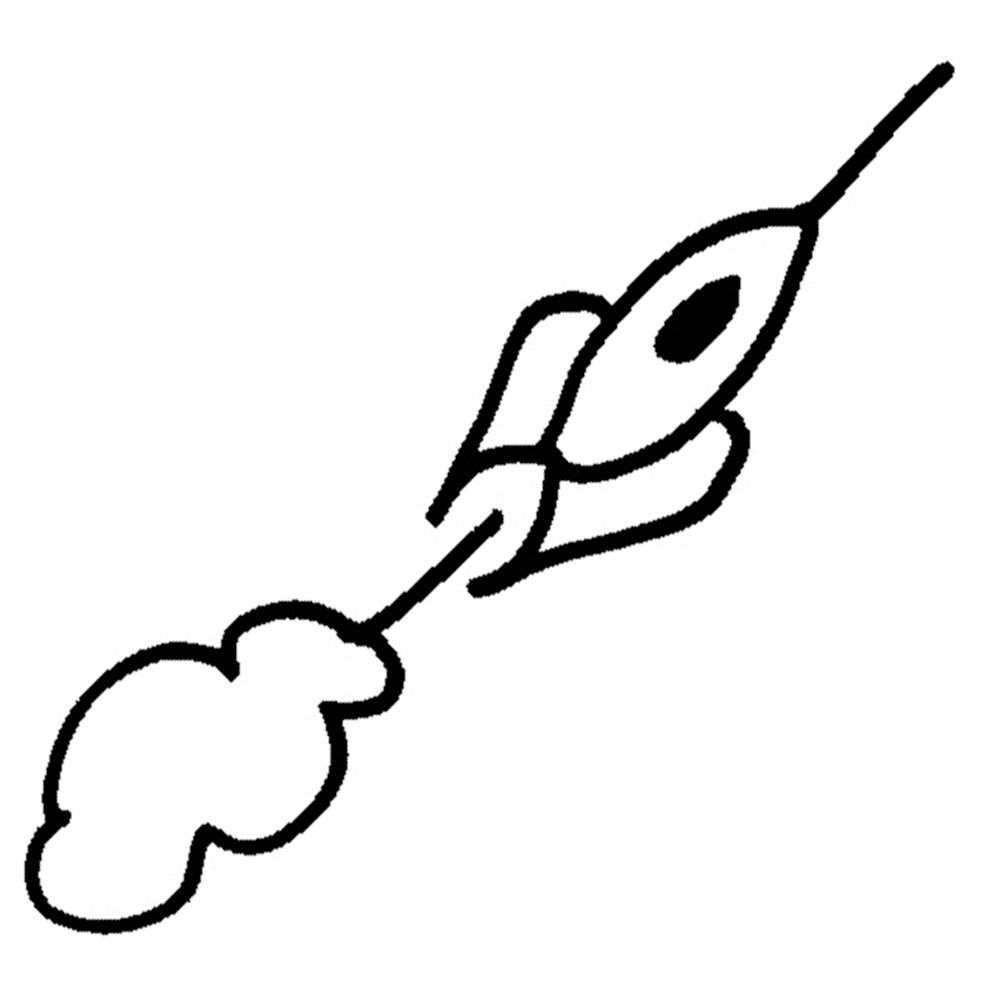
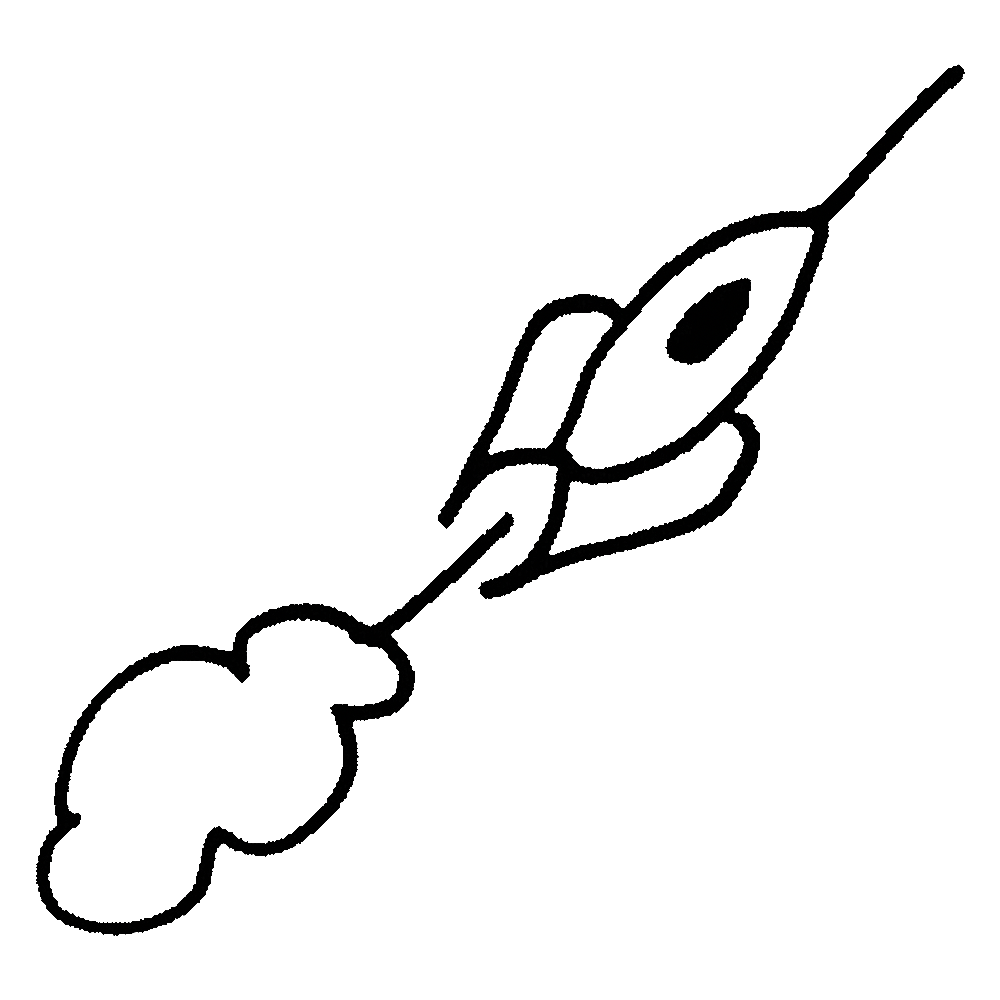
futz with html and css

Changed region(s): [[0.0, 0.062, 0.961, 0.93]]

diff --git a/index.html b/index.html
@@ -9,21 +9,23 @@
   <body>
     <header>
       <img
-        src="/assets/r2n_angled2.png"
+        src="/assets/r2n_angled.png"
         alt="a simple line drawing of a rocket with an exhaust plume and a single window"
         height="100px"
         width="100px"
       />
       <h1>Shawn Huelle</h1>
-      <nav>
-        <ul class="nav-list">
-          <li><a href="#about">About Me</a></li>
-          <li><a href="cv">CV</a></li>
-          <li><a href="pubs">Publications</a></li>
-          <li><a href="projs">Projects</a></li>
-          <li><a href="contact">Contact Me</a></li>
-        </ul>
-      </nav>
+      <section>
+        <nav>
+          <ul class="nav-list">
+            <li><a href="#about">About Me</a></li>
+            <li><a href="cv">CV</a></li>
+            <li><a href="pubs">Publications</a></li>
+            <li><a href="projs">Projects</a></li>
+            <li><a href="contact">Contact Me</a></li>
+          </ul>
+        </nav>
+      </section>
     </header>
     <main>
       <section></section>

diff --git a/CSS/styles.css b/CSS/styles.css
@@ -5,15 +5,23 @@
 }
 
 /* behavior for types */
+
+body {
+  padding: 20px;
+  margin: 0 auto;
+}
+
 header {
   display: flex;
   background-color: lightgray;
   border-radius: 10px;
   padding: 5px;
+  justify-content: space-between;
 }
 
 h1 {
   font-size: 64px;
+  float: top;
 }
 
 h2 {
@@ -69,6 +77,7 @@ a:active {
 header .nav-list {
   display: flex;
   gap: 20px;
+  flex-wrap: wrap;
 }
 
 /* behavior for IDs */
